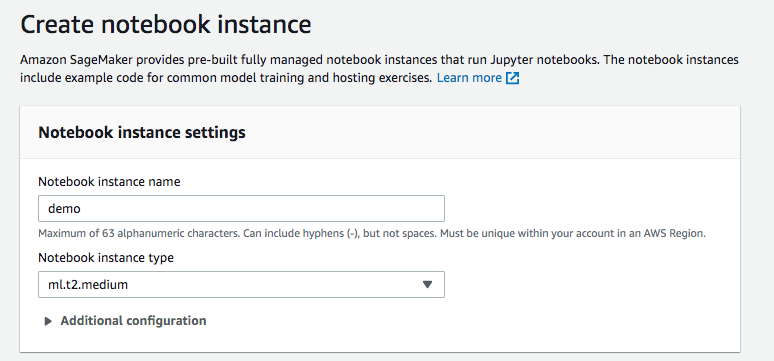
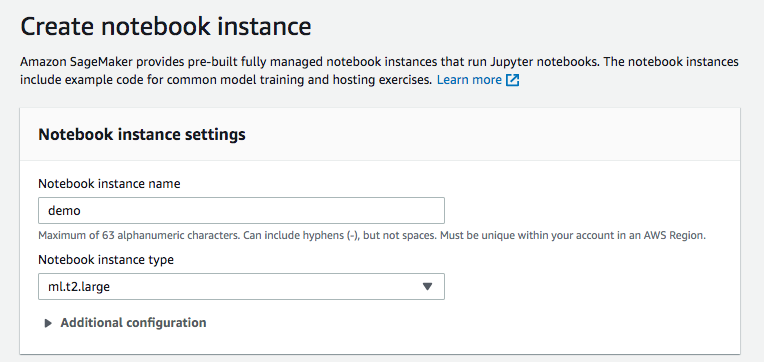
update

diff --git a/README.md b/README.md
@@ -12,7 +12,7 @@ Before you begin, please follow the steps below to launch jupyterlab.
 
 ## Create Notebook
 
-- Step 1: Key in the name and instance type, leave other settings as default
+- Step 1: Key in the name and instance type (ml.t2.large), leave other settings as default
 
 ![image](images/create-notebook.png)
 
